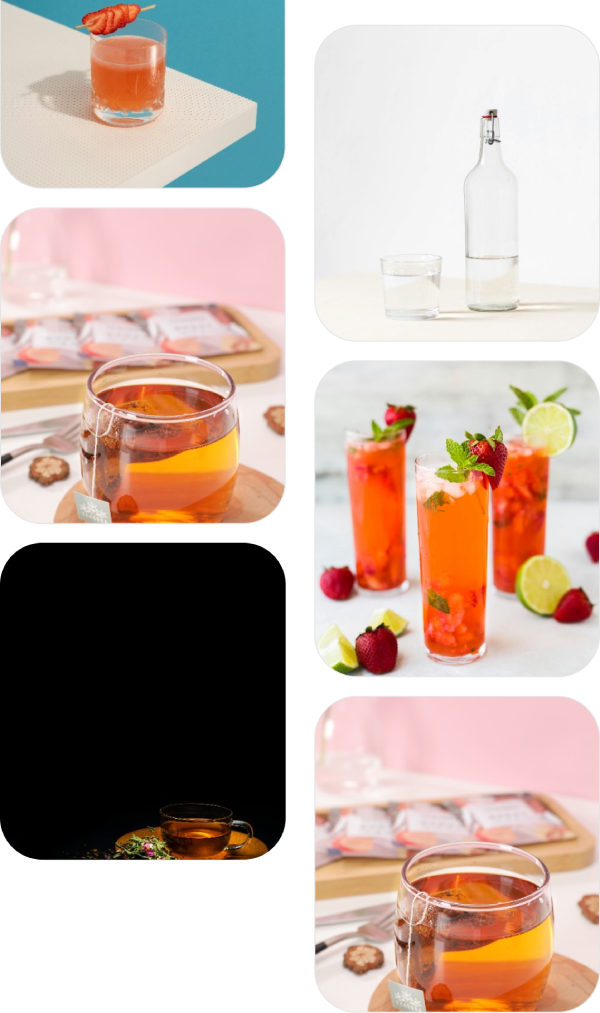
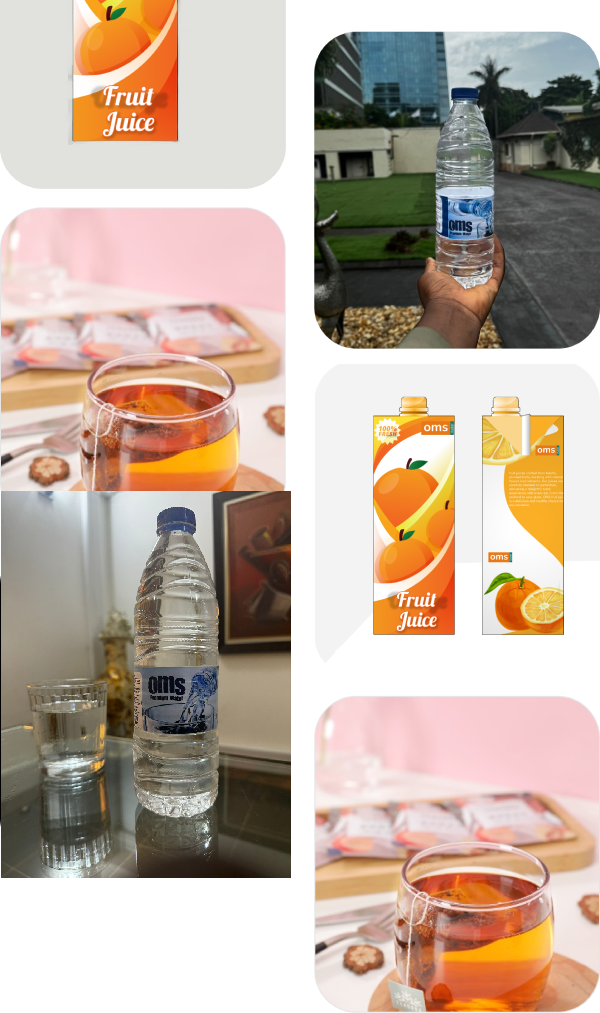
added product image

diff --git a/index.html b/index.html
@@ -5,7 +5,7 @@
     <meta name="viewport" content="width=device-width, initial-scale=1.0" />
     <title>OMS Beverage</title>
     <link rel="stylesheet" href="./assets/main.css" />
-    <!-- <link rel="shortcut icon" href="./assets/favicon.ico" type="image/x-icon" /> -->
+    <link rel="shortcut icon" href="./assets/favicon.ico" type="image/x-icon" />
   </head>
   <body class="relative">
     <nav class="border-b border-b-gray-500 py-3 bg-white">
@@ -101,7 +101,7 @@
       <section class="bg-[#fff5ee]">
         <div class="grid grid-cols-1 md:grid-cols-2 gap-x-10 items-center max-md:gap-y-10">
           <div class="cols-span-1">
-            <img src="./assets/vision.png" class="max-md:w-[80%] mx-auto" alt="" srcset="" />
+            <img src="./assets/bottle-water.jpeg" class="max-md:w-[80%] mx-auto rounded-lg max-w-[400px]" alt="" srcset="" />
           </div>
           <div class="cols-span-1 space-y-5">
             <h1 class="title">Our Vision</h1>
@@ -199,7 +199,7 @@
       </section>
       <section class="bg-black rounded-tr-lg text-white py-10 mt-3">
         <div>
-          <img src="./assets/products.png" alt="" srcset="" />
+          <img src="./assets/products.png" class="w-full" alt="" srcset="" />
         </div>
       </section>
       <section class="bg-black relative">

diff --git a/about.html b/about.html
@@ -102,7 +102,7 @@
         <div class="mx-auto md:max-w-[80%] bg-[#FFF5EE] p-10 sm:rounded-tr-[30%]">
           <div class="grid max-sm:gap-y-10 grid-cols-1 sm:grid-cols-2 gap-x-10 items-center">
             <div class="cols-span-1">
-              <img src="./assets/vision.png" class="h-full w-full object-cover" alt="" srcset="" />
+              <img src="./assets/bottle-water.jpeg" class="max-md:w-[80%] mx-auto rounded-lg max-w-[400px]" alt="" srcset="" />
             </div>
             <div class="cols-span-1 space-y-5">
               <h1 class="title">Our Vision</h1>

diff --git a/contact.html b/contact.html
@@ -15,7 +15,7 @@
         </div>
         <ul class="sm:flex gap-x-5 items-center hidden">
           <li><a href="./index.html" class="py-1.5 px-2 hover:font-bold rounded-md block">Home</a></li>
-          <li><a href="./about.html" class="font-bold py-1.5 px-2 hover:font-bold rounded-md block">About Us</a></li>
+          <li><a href="./about.html" class="py-1.5 px-2 hover:font-bold rounded-md block">About Us</a></li>
           <li><a href="#" class="font-bold py-1.5 px-2 hover:font-bold rounded-md block">Contact Us</a></li>
         </ul>
         <div>

diff --git a/assets/main.css b/assets/main.css
@@ -898,6 +898,10 @@ section {
   overflow: hidden;
 }
 
+.rounded-lg {
+  border-radius: 0.5rem;
+}
+
 .rounded-md {
   border-radius: 0.375rem;
 }
